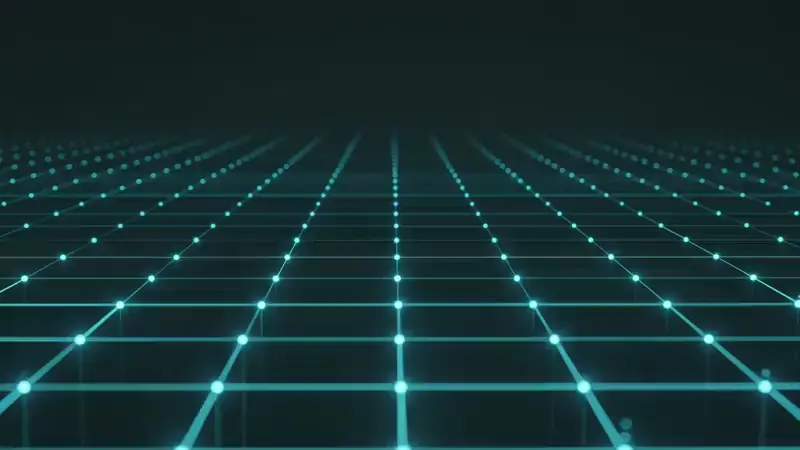
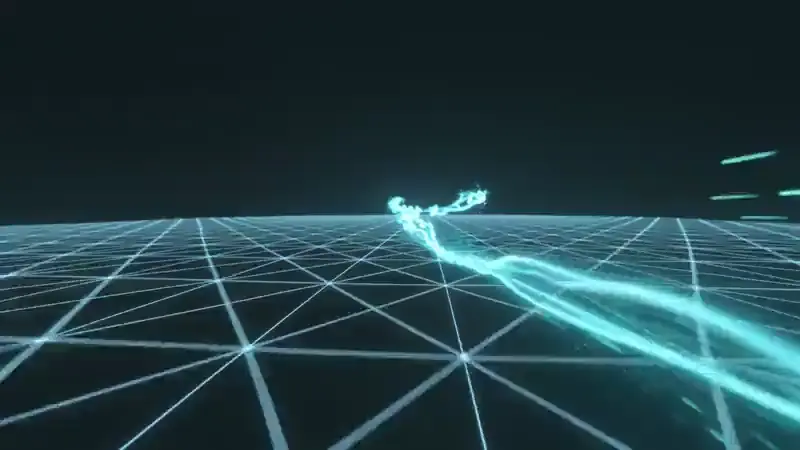
Rebuild: hero de Inicio v2 (movimiento claro) + PreloaderSplash animado en cada arranque
- Inicio hero regenerado en Higgsfield con MOVIMIENTO VISIBLE (el anterior era 'breathing in place' → se veía
  estático aunque reproducía). Streaming/swirling de partículas + trails. ffmpeg ping-pong loop + compress (932K).
- PreloaderSplash: animación de 'encendido' (Higgsfield, partículas radiales convergiendo) + wordmark Hacktrack +
  barra de carga; se muestra en CADA arranque ~1.8s y hace fade. Montado en el Frame (overlay z-100). splash-loader.mp4 712K.
- Verificado: hero currentTime avanza (reproduce+loopea), preloader renderiza con animación + wordmark + barra.

diff --git a/src/v2/ui/PreloaderSplash.tsx b/src/v2/ui/PreloaderSplash.tsx
@@ -1,0 +1,62 @@
+import { useState, useEffect } from 'react'
+import { AnimatePresence, motion, useReducedMotion } from 'framer-motion'
+import { canAutoplayHeavyMedia } from '../lib/media'
+import loaderSrc from '../../assets/rebuild/splash-loader.mp4'
+import loaderPoster from '../../assets/rebuild/splash-loader-poster.webp'
+
+// Preloader de marca animado — se muestra en CADA arranque mientras carga, luego se desvanece.
+export function PreloaderSplash() {
+  const reduce = useReducedMotion()
+  const [show, setShow] = useState(true)
+  useEffect(() => {
+    const t = window.setTimeout(() => setShow(false), reduce ? 500 : 1800)
+    return () => window.clearTimeout(t)
+  }, [reduce])
+  const play = !reduce && canAutoplayHeavyMedia()
+
+  return (
+    <AnimatePresence>
+      {show && (
+        <motion.div
+          className="absolute inset-0 z-[100] flex flex-col items-center justify-center overflow-hidden bg-void"
+          initial={{ opacity: 1 }}
+          exit={{ opacity: 0 }}
+          transition={{ duration: 0.5, ease: 'easeOut' }}
+          role="status"
+          aria-label="Cargando Hacktrack"
+        >
+          <img src={loaderPoster} alt="" aria-hidden className="absolute inset-0 h-full w-full object-cover opacity-70" />
+          {play && (
+            <video
+              src={loaderSrc}
+              poster={loaderPoster}
+              autoPlay
+              muted
+              playsInline
+              preload="auto"
+              aria-hidden
+              className="absolute inset-0 h-full w-full object-cover opacity-80"
+            />
+          )}
+          <div className="pointer-events-none absolute inset-0 bg-gradient-to-b from-void/40 via-transparent to-void/75" />
+          <div className="relative flex flex-col items-center gap-5">
+            <h1 className="text-[34px] font-bold tracking-tight">
+              <span className="text-foreground">Hack</span>
+              <span className="text-teal">track</span>
+            </h1>
+            {!reduce && (
+              <div className="h-1 w-32 overflow-hidden rounded-full bg-white/12">
+                <motion.div
+                  className="h-full rounded-full bg-teal"
+                  initial={{ width: '8%' }}
+                  animate={{ width: '100%' }}
+                  transition={{ duration: 1.6, ease: 'easeInOut' }}
+                />
+              </div>
+            )}
+          </div>
+        </motion.div>
+      )}
+    </AnimatePresence>
+  )
+}

diff --git a/src/v2/AppV2.tsx b/src/v2/AppV2.tsx
@@ -5,6 +5,7 @@ import { useApp } from '../lib/store'
 import type { TabId } from '../lib/store'
 import { FloatingNav } from './ui/FloatingNav'
 import { AmbientBackground } from './ui/AmbientBackground'
+import { PreloaderSplash } from './ui/PreloaderSplash'
 import { Inicio } from './screens/Inicio'
 import { Diario } from './screens/Diario'
 import { Progreso } from './screens/Progreso'
@@ -36,6 +37,7 @@ function Frame({ children }: { children: ReactNode }) {
     <div className="app-frame relative mx-auto h-[100dvh] w-full overflow-hidden bg-precision-grid sm:my-0 md:h-[880px] md:max-w-[412px] md:rounded-[40px]">
       <AmbientBackground />
       {children}
+      <PreloaderSplash />
     </div>
   )
 }